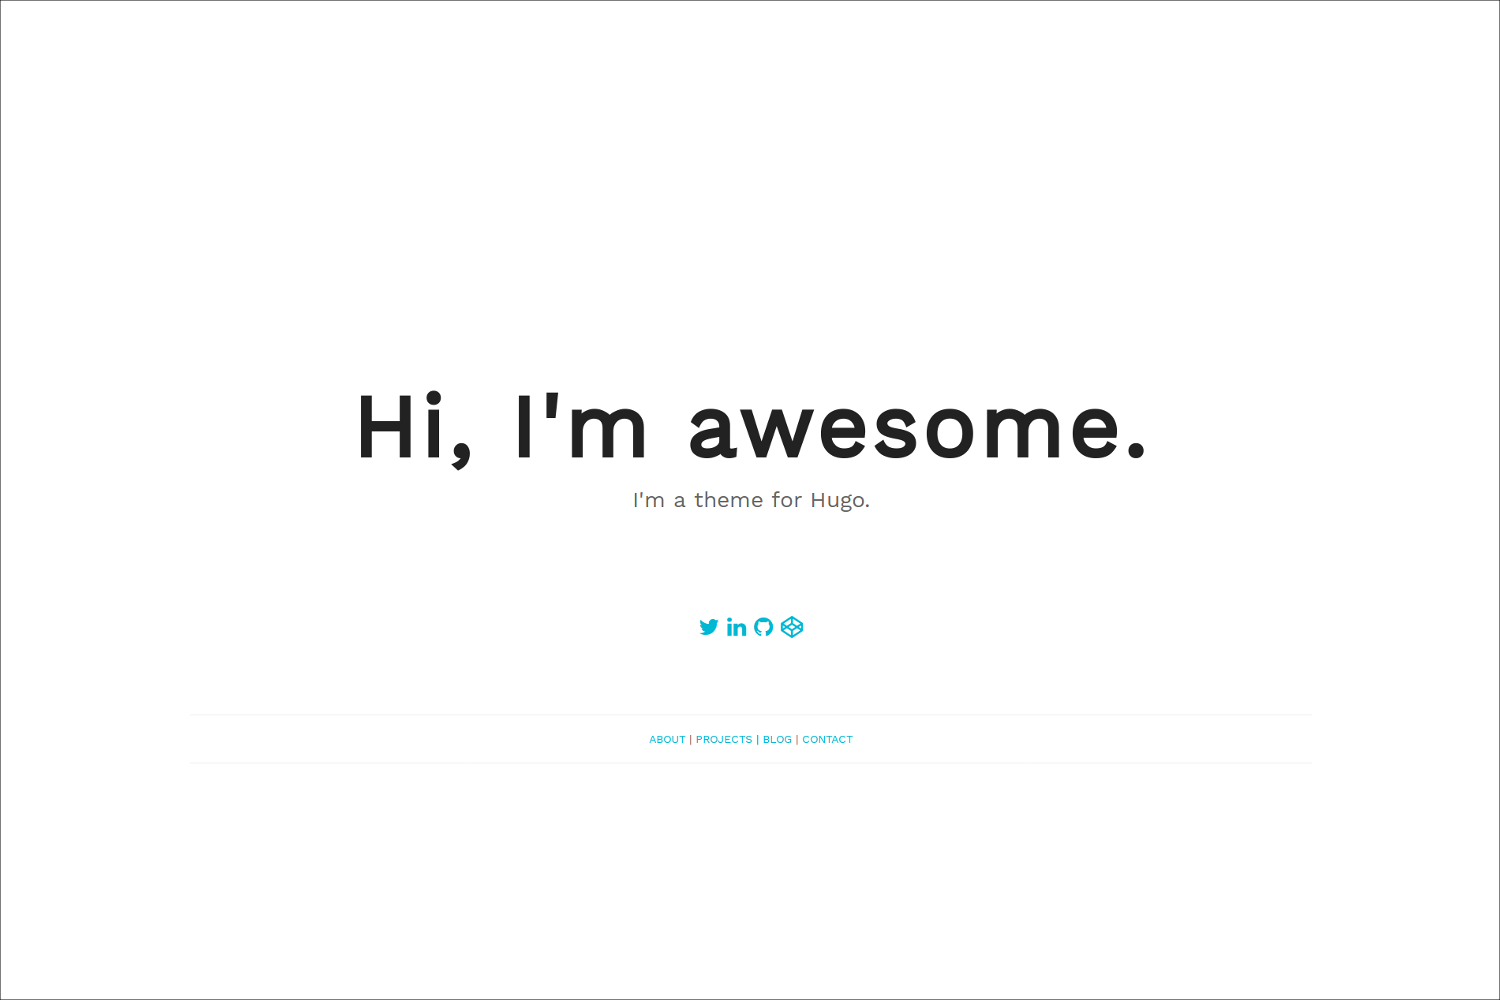
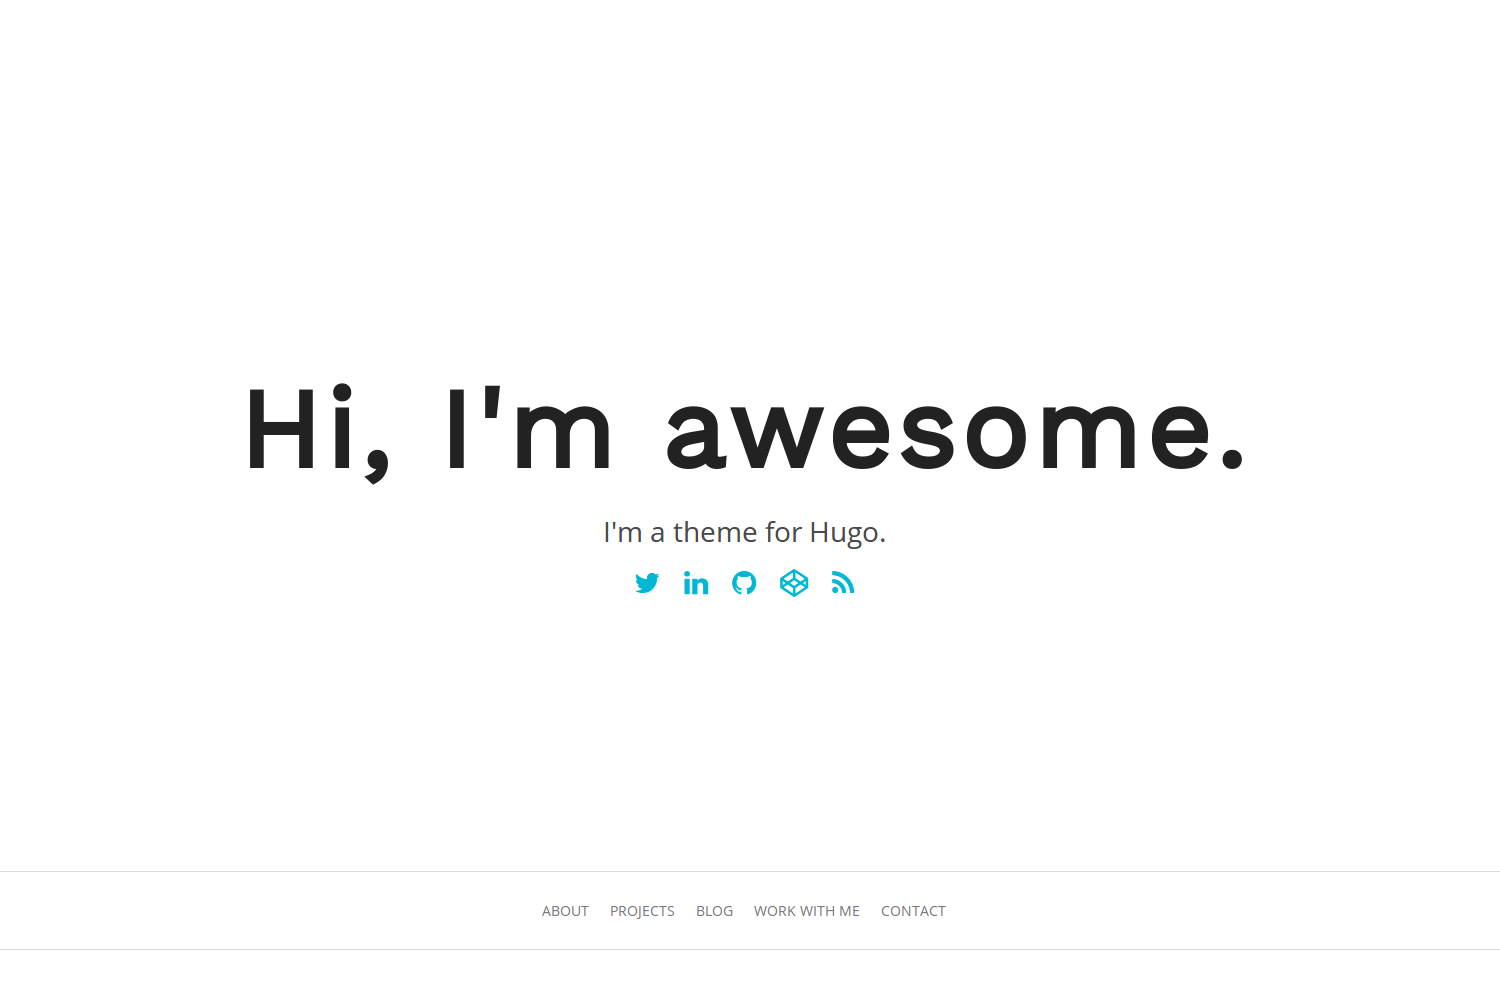
Choose header height in config file! And updated screenshots.

diff --git a/layouts/index.html b/layouts/index.html
@@ -10,7 +10,7 @@
 
 <div class="section" id="top"> <!-- Where all the awesome begins -->
 
-<div class="hero is-medium">
+<div class="hero is-{{ .Site.Params.introheight }}">
 <!-- Possible hero-head not used -->
     <!-- Super sweet Hero body title -->
     <div class="hero-body">

diff --git a/README.md b/README.md
@@ -5,12 +5,12 @@ A minimal, single page, smooth scrolling theme for Hugo.
 ![Main page screenshot](https://github.com/vickylaixy/hugo-theme-introduction/blob/master/images/screenshot.png)
 
 Features:
-* Single scrolling home page
-    * About and Contact sections
-    * Optional Projects and Blog sections
-* Browser friendly CSS fade-in effect for some pizzaz
-* Smooth scroll-to nav feature
-* Responsive and fast
+- Single scrolling home page
+    - About and Contact sections
+    - Optional Projects and Blog sections
+- Browser friendly CSS fade-in effect for some pizzaz
+- Smooth scroll-to nav feature
+- Responsive and fast
 
 ## Quick start
 
@@ -30,9 +30,10 @@ Start with:
 
 1. Set your baseurl
 2. Set your full name and first name
-3. Set your avatar image
-4. Input your social site usernames
-5. Choose whether or not to show the Blog and Projects sections, and configure them to your liking
+3. Set your introduction header height (use "medium", "large", or "fullheight")
+4. Set your avatar image
+5. Input your social site usernames
+6. Choose whether or not to show the Blog and Projects sections, and configure them to your liking
 
 ### Create About and Contact pages
 
